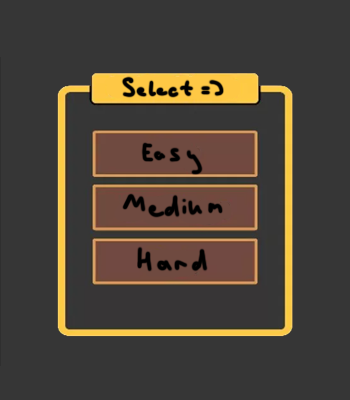
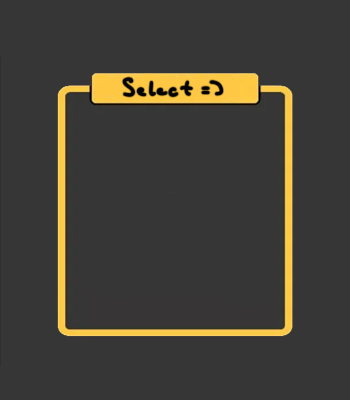
final update

Changed region(s): [[0.2571, 0.3, 0.7429, 0.72]]

diff --git a/game_action.py b/game_action.py
@@ -2,7 +2,7 @@ import random
 
 import pygame
 
-from utils import FPS, terminate
+from utils import FPS, terminate, load_image
 
 
 class Board:
@@ -24,25 +24,31 @@ class Board:
     def render(self):
         for y, row in enumerate(self.board):
             for x, cell in enumerate(row):
+
                 pygame.draw.rect(
                     surface=self.screen,
                     color='white',
                     rect=(
+
                         self.left + self.cell_size * x,
                         self.top + self.cell_size * y,
                         self.cell_size,
                         self.cell_size,
+
                     ),
                     width=1
                 )
 
                 # if self.board[y][x] == 10:  # bomb render
+                #
                 #     self.screen.fill(color='blue',
                 #                      rect=(
+                #
                 #                          self.left + self.cell_size * x + 1,
                 #                          self.top + self.cell_size * y + 1,
                 #                          self.cell_size - 2,
                 #                          self.cell_size - 2,
+                #
                 #                      )
                 #                      )
 
@@ -69,6 +75,7 @@ class Board:
 
         try:
             self.on_click(cell)
+
         except TypeError:
             return None
 
@@ -81,6 +88,7 @@ class Sapper(Board):
         self.game_status = True
         self.game_final = False
         self.max_bomb = max_bomb
+        self.score = 0
 
         self.reset_board()
 
@@ -105,23 +113,35 @@ class Sapper(Board):
         super().render()
         for y, row in enumerate(self.board):
             for x, cell in enumerate(row):
+
                 if 10 > self.board[y][x] >= 0:
                     self.screen.blit(self.font.render(str(self.board[y][x]), True, (255, 255, 255)),
                                      (self.left + self.cell_size * x + 1, self.top + self.cell_size * y + 1))
+
                 if self.board[y][x] == -1:
                     close_count += 1
 
         if close_count == 0:
             self.game_status = False
             self.game_final = True
+            self.score = len(self.board) * len(self.board[0])
 
     def open_cell(self, mouse_pos):
         try:
             x, y = self.get_cell(mouse_pos)
+
             try:
                 self.open_neighbor(x, y)
             except AssertionError:
                 self.game_status = False
+
+                for i in range(len(self.board)):
+                    for j in range(len(self.board[i])):
+
+                        if 0 <= self.board[i][j] < 10:
+                            self.score += 1
+                            print(self.board[i][j], end=' ')
+
         except TypeError:
             print('error')
 
@@ -149,28 +169,59 @@ class Sapper(Board):
     def check_cell(self, x, y):
         if self.board[y][x] == 10:
             raise AssertionError
+
         cells = 0
+
         for i in range(-1, 2):
             for j in range(-1, 2):
+
                 try:
                     assert y + i >= 0 and x + j >= 0
+
                     if (i, j) == (0, 0):
                         continue
+
                     if self.board[y + i][x + j] == 10:
                         cells += 1
                 except AssertionError:
                     continue
+
                 except IndexError:
                     continue
+
         return cells
 
 
+class Smile(pygame.sprite.Sprite):
+    image = load_image(r'smile\frame_0_delay-0.2s.png')
+
+    def __init__(self, *groups):
+        super().__init__(*groups)
+        self.rect = self.image.get_rect()
+
+        self.rect.x = 100
+        self.rect.y = 300
+
+        self.frame = 0
+
+    def update(self):
+        self.image = load_image(rf'smile\frame_{str(self.frame)}_delay-0.2s.png')
+        self.frame += 1
+
+        if self.frame == 6:
+            self.frame = 0
+
+
 def game(surface, bomb):
+    all_sprites = pygame.sprite.Group()
+
     n = 12
     max_bomb = bomb
 
     sapper_game = Sapper(surface, n, n, max_bomb)
     sapper_game.set_view(50, 50, 250 // n)
+
+    smile = Smile(all_sprites)
 
     clock = pygame.time.Clock()
     running = True
@@ -182,10 +233,13 @@ def game(surface, bomb):
             if event.type == pygame.MOUSEBUTTONDOWN:
                 sapper_game.open_cell(event.pos)
 
+        all_sprites.update()
+
         if not sapper_game.game_status:
-            return sapper_game.game_final
+            return sapper_game.game_final, sapper_game.score
 
         surface.fill('black')
         sapper_game.render()
+        all_sprites.draw(surface)
         pygame.display.update()
         clock.tick(FPS)

diff --git a/end.py b/end.py
@@ -3,35 +3,61 @@ import pygame
 from utils import terminate, SCREEN_SIZE
 
 
-def win(surface):
+def win(surface, score):
     background_img = pygame.transform.scale(pygame.image.load(r'./data/end.jpg'), SCREEN_SIZE)
     surface.blit(background_img, (0, 0))
 
+    render_result(surface, score)
+
     running = True
 
     while running:
         for event in pygame.event.get():
+
             if event.type == pygame.QUIT:
                 terminate()
 
-            if event.type == pygame.MOUSEBUTTONDOWN:
+            if event.type == pygame.KEYDOWN and event.key == pygame.K_SPACE:
                 return
 
         pygame.display.update()
 
 
-def wasted(surface):
+def wasted(surface, score):
     background_img = pygame.transform.scale(pygame.image.load(r'./data/wasted.jpg'), SCREEN_SIZE)
     surface.blit(background_img, (0, 0))
 
+    render_result(surface, score)
+
     running = True
 
     while running:
         for event in pygame.event.get():
+
             if event.type == pygame.QUIT:
                 terminate()
 
-            if event.type == pygame.MOUSEBUTTONDOWN:
+            if event.type == pygame.KEYDOWN and event.key == pygame.K_SPACE:
                 return
 
         pygame.display.update()
+
+
+def render_result(surface, score):
+    intro_text = [f"вас счет: {score}",
+                  "Отличный результат!",
+                  "Нажмите пробел, чтобы попробовать еще раз"]
+
+    font_obj = pygame.font.Font(None, 20)
+    text_coord = 5
+
+    for line in intro_text:
+        string_rendered = font_obj.render(line, 1, pygame.Color('red'))
+        intro_rect = string_rendered.get_rect()
+
+        text_coord += 5
+        intro_rect.top = text_coord
+
+        intro_rect.x = 5
+        text_coord += intro_rect.height
+        surface.blit(string_rendered, intro_rect)

diff --git a/menu.py b/menu.py
@@ -11,7 +11,7 @@ class Easy(pygame.sprite.Sprite):
         self.rect = self.image.get_rect()
 
         self.rect.x = 91
-        self.rect.y = 130
+        self.rect.y = 130 + 20
 
         self.max_bomb = 0
 
@@ -29,7 +29,7 @@ class Medium(pygame.sprite.Sprite):
         self.rect = self.image.get_rect()
 
         self.rect.x = 91
-        self.rect.y = 184
+        self.rect.y = 184 + 20
 
         self.max_bomb = 0
 
@@ -47,7 +47,7 @@ class Hard(pygame.sprite.Sprite):
         self.rect = self.image.get_rect()
 
         self.rect.x = 91
-        self.rect.y = 238
+        self.rect.y = 238 + 20
 
         self.max_bomb = 0
 
@@ -71,8 +71,10 @@ def main_menu(surface):
     for line in intro_text:
         string_rendered = font_obj.render(line, 1, pygame.Color('black'))
         intro_rect = string_rendered.get_rect()
+
         text_coord += 5
         intro_rect.top = text_coord
+
         intro_rect.x = 5
         text_coord += intro_rect.height
         surface.blit(string_rendered, intro_rect)
@@ -88,12 +90,14 @@ def main_menu(surface):
 
     while running:
         for event in pygame.event.get():
+
             if event.type == pygame.QUIT:
                 terminate()
 
             all_sprites.update(event)
 
         for i in [easy, medium, hard]:
+
             if i.max_bomb != 0:
                 return i.max_bomb
 

diff --git a/utils.py b/utils.py
@@ -3,22 +3,28 @@ import sys
 
 import pygame
 
-SCREEN_SIZE = WIDTH, HEIGHT = 350, 400
-FPS = 60
+SCREEN_SIZE = WIDTH, HEIGHT = 345, 450
+
+FPS = 5
 
 
 def load_image(name, colorkey=None):
     fullname = os.path.join('data', name)
+
     if not os.path.isfile(fullname):
         print(f"Файл с изображением '{fullname}' не найден")
         sys.exit()
+
     image = pygame.image.load(fullname)
 
     # if colorkey is not None:
     #     image = image.convert()
+
     if colorkey == -1:
         colorkey = image.get_at((0, 0))
+
     image.set_colorkey(colorkey)
+
     # else:
     #     image = image.convert_alpha()
 

diff --git a/main.py b/main.py
@@ -14,8 +14,17 @@ running = True
 
 while running:
     bombs = main_menu(screen)
-    result = game(screen, bombs)
+    result, score = game(screen, bombs)
+
+    with open('best_result.txt', 'w', encoding='utf8') as file:
+
+        print(f'Прошлый результат {score}! \n'
+              f'Отлично! Класс! Супер круто! \n'
+              f'Молодец! Так держать! \n'
+              f'Умничка! Ты реально крут! \n', file=file)
+
     if result:
-        win(screen)
+        win(screen, score)
+
     else:
-        wasted(screen)
+        wasted(screen, score)
